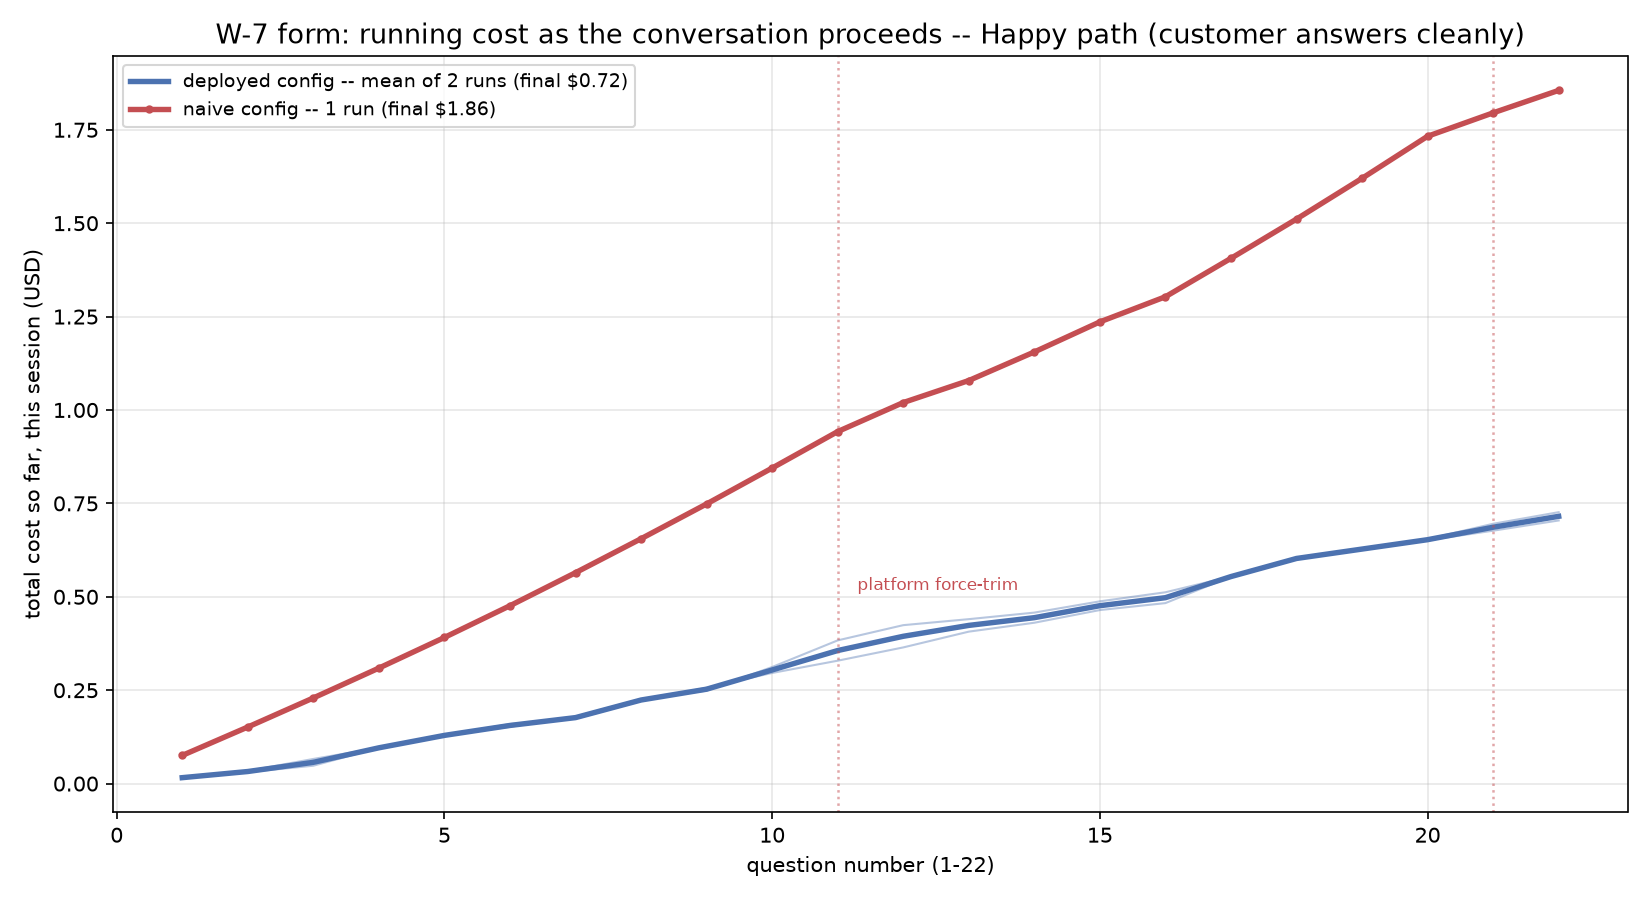
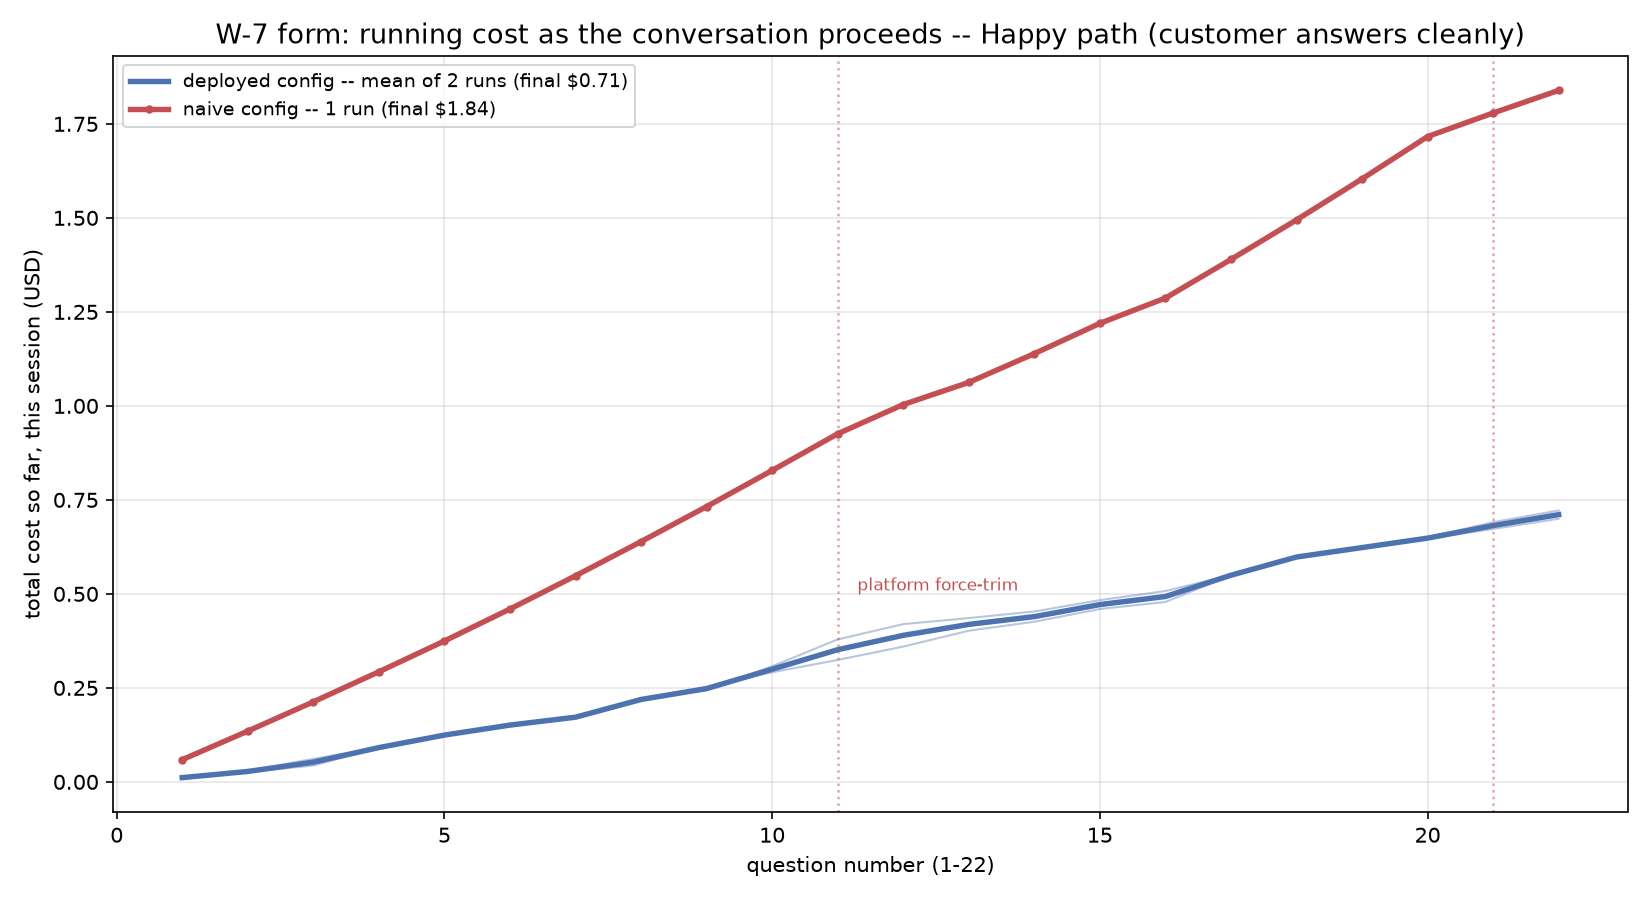
fix(wiadk): charts + docs use ONE cost convention -- headline all-in, greeting as its own line
Fresh-eyes caught the comparison charts (and the pitch report's display
figures, fixed on disk -- that file is gitignored) reading turns.csv's
cumulative_cost_usd as "the session cost": that column seeds from the greeting
and excludes the text sidecar, drifting the naive endpoints ~1-2 cents high
($1.86/$3.30 vs the correct $1.84/$3.28). plot_wiadk_comparison.py now takes
bar values from summary.json's headline all_in_usd and subtracts the greeting
seed from the per-question curves; PNGs regenerated. The findings doc states
the greeting convention explicitly and records the naive-unhappy pre-run
projection (~$4, session log) with its honest weaker-pre-registration caveat.
Deferred nits filed as a chore bead.

diff --git a/scripts/spikes/plot_wiadk_comparison.py b/scripts/spikes/plot_wiadk_comparison.py
@@ -73,9 +73,19 @@ def _load(data_dir: str, pattern: str, label: str) -> dict:
         raise SystemExit(f"No file matching {pattern!r} in {data_dir} for {label}.")
     path = matches[-1]
     meta = json.loads(open(path, encoding="utf-8").read())
+    # The bars use the headline all-in (voice + text sidecar, greeting as its
+    # own separate line -- the SAME convention as the findings doc and the
+    # 89mt-comparable numbers). turns.csv's cumulative_cost_usd seeds from the
+    # greeting and excludes the text sidecar, so reading turns[-1] as "the
+    # session cost" mixed conventions and drifted the naive endpoints ~1-2
+    # cents high (fresh-eyes finding, bd polyglot-pdf-wiadk).
+    summary_path = path.replace(".meta.json", ".summary.json")
+    summary = json.loads(open(summary_path, encoding="utf-8").read())
+    meta["_headline_all_in_usd"] = float(summary["headline"]["all_in_usd"])
     print(f"  {label:28} <- {os.path.basename(path)} "
           f"(arm={meta.get('arm')} path={meta.get('path')} "
-          f"wall_clock_s={meta.get('wall_clock_s')})")
+          f"wall_clock_s={meta.get('wall_clock_s')} "
+          f"all_in=${meta['_headline_all_in_usd']:.6f})")
     return meta
 
 
@@ -107,13 +117,17 @@ def load_all(data_dir: str) -> dict:
 
 
 def _turn_cumulative_cost(meta: dict) -> tuple[list[int], list[float]]:
-    """Question index and running all-in cost, one point per question (last
-    turn seen for that q -- cumulative_cost_usd already accumulates)."""
+    """Question index and running VOICE cost, one point per question (last
+    turn seen for that q). turns.csv's cumulative_cost_usd is seeded with the
+    greeting cost; subtract that seed so the curve shows question-driven
+    accumulation in the same greeting-excluded convention as the headline
+    numbers (the greeting is reported as its own line in the findings doc)."""
+    greeting = float(meta.get("greeting_cost_usd") or 0.0)
     q_list: list[int] = []
     cost_list: list[float] = []
     seen: dict[int, float] = {}
     for t in meta["turns"]:
-        seen[int(t["q"])] = float(t["cumulative_cost_usd"])
+        seen[int(t["q"])] = float(t["cumulative_cost_usd"]) - greeting
     for q in sorted(seen):
         q_list.append(q)
         cost_list.append(seen[q])
@@ -193,12 +207,12 @@ def plot_cumulative_cost(runs: dict, path_tag: str, out_path: str) -> None:
 def plot_session_cost_bars(runs: dict, out_path: str) -> None:
     cv = _cross_form_cv()
 
-    dep_happy = [runs["deployed_happy_1"]["turns"][-1]["cumulative_cost_usd"],
-                 runs["deployed_happy_2"]["turns"][-1]["cumulative_cost_usd"]]
-    dep_unhappy = [runs["deployed_unhappy_1"]["turns"][-1]["cumulative_cost_usd"],
-                   runs["deployed_unhappy_2"]["turns"][-1]["cumulative_cost_usd"]]
-    naive_happy = runs["naive_happy"]["turns"][-1]["cumulative_cost_usd"]
-    naive_unhappy = runs["naive_unhappy"]["turns"][-1]["cumulative_cost_usd"]
+    dep_happy = [runs["deployed_happy_1"]["_headline_all_in_usd"],
+                 runs["deployed_happy_2"]["_headline_all_in_usd"]]
+    dep_unhappy = [runs["deployed_unhappy_1"]["_headline_all_in_usd"],
+                   runs["deployed_unhappy_2"]["_headline_all_in_usd"]]
+    naive_happy = runs["naive_happy"]["_headline_all_in_usd"]
+    naive_unhappy = runs["naive_unhappy"]["_headline_all_in_usd"]
 
     dep_happy_mean = statistics.mean(dep_happy)
     dep_unhappy_mean = statistics.mean(dep_unhappy)

diff --git a/scripts/spikes/w7_naive_vs_deployed_findings.md b/scripts/spikes/w7_naive_vs_deployed_findings.md
@@ -117,7 +117,21 @@ ledger total rather than broken out as its own numbered row here.
 | 6 | D full, unhappy run 1, --questions 22 | -- | 1.406226 | 22/22 fields correct + confirmed; secretary fired 3x |
 | 7 | D full, unhappy run 2, --questions 22 | -- | 1.328544 | 22/22 fields correct + confirmed; secretary fired 0x |
 | 8 | N full, happy, --questions 22 | 2.27 (band 1.90-2.63, pre-reg #1) | 1.839110 | 21/22 filled (missing `us_visa_type_number_expiration`), 22/22 confirmed; 2 platform force-trims; -19.0% vs. point prediction, $0.061 below band floor |
-| 9 | N full, unhappy, --questions 22 | see Estimator grading below (Estimator B: 3.678, Estimator A trim-aware: 1.362, Estimator A no-eviction: 8.514) | 3.281677 | 21/22 filled, 20/22 confirmed; 3 platform force-trims |
+| 9 | N full, unhappy, --questions 22 | ~4 (rough pre-run projection, stated in the session log BEFORE the run -- "projects to roughly $4, ~2x the naive-happy event count at the capped per-event prompt"; recorded there, not in this doc at the time, so it is a weaker pre-registration than row 8's -- noted honestly. Post-hoc estimators: B 3.678, A trim-aware 1.362, A no-eviction 8.514) | 3.281677 | 21/22 filled, 20/22 confirmed; 3 platform force-trims |
+
+**Greeting convention (applies to every dollar figure in this doc):** the
+headline `all_in_usd` = voice cost of the 22 questions + text-sidecar cost;
+the session GREETING (the model's opening turn before question 1) is measured
+and reported as its own line (`greeting_usd`: deployed ~$0.004-0.005/run,
+naive ~$0.016/run -- 3x dearer because the naive greeting re-bills the ~28.7k
+SI) but is NOT folded into `all_in_usd`. This matches the bd-89mt convention
+(comparability) and is conservative for the moat claim (excluding it
+understates the naive arm more than the deployed arm). `turns.csv`'s
+`cumulative_cost_usd` column DOES seed from the greeting and excludes the
+text sidecar -- reading its last row as "the session cost" mixes conventions
+(a fresh-eyes finding caught the comparison charts doing exactly that,
+drifting the naive endpoints ~1-2 cents high; `plot_wiadk_comparison.py` now
+reads the headline for bars and subtracts the greeting seed from curves).
 
 **Total actual spend: ~$10.173** (3 pipeline smokes $0.170 + $0.137 + $0.135
 = $0.442, plus the N-happy pilot $0.449, plus the 6 full runs summing to
